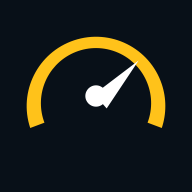
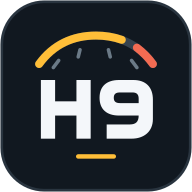
Обновить иконку H9 Cluster и значок уведомления (#78)
## Что изменено

Обычный значок спидометра заменён крупным знаком H9 на графитовом фоне с
янтарной шкалой и красным краем.

- Обновлены Android-вектор, SVG и PNG 192×192; добавлен PNG 512×512.
- Служебное уведомление FDBus использует отдельный одноцветный вектор с
прозрачным фоном, чтобы системное окрашивание не превращало его в
сплошной квадрат.
- Синхронизированы README, инструкция для 4PDA, описание файлов иконки и
CHANGELOG.

## Как проверено

Проверки выполнены для коммита `cf359a7` поверх актуального main
(`446a2da`).

- [x] `./gradlew testDebugUnitTest testDemoUnitTest lintDebug lintDemo
assembleDebug assembleDemo`: Debug — 309 тестов пройдено; Demo — 314
пройдено, 1 пропущен, ошибок нет. Android Lint и обе сборки APK прошли.
- [x] `python -m unittest discover -s tools/release -p 'test_*.py'` — 33
теста; на Windows использована временная настройка `core.autocrlf=true`
для тестовых репозиториев.
- [x] `git diff --check origin/main...HEAD`.
- [x] Сверены восемь контуров и цвета SVG/Android-вектора, размеры и
прозрачность PNG. Визуально проверена читаемость при 32–48 px и значка
уведомления при 24 px.
- [x] Проверено на совместимом головном устройстве.

## Безопасность

- [x] Изменение не отправляет команды управления автомобилем.
- [x] В PR нет ключей, паролей, VIN, координат, дампов или персональных
данных.
- [x] Новые графические материалы созданы для проекта из векторных
контуров; сторонние изображения и шрифты не добавлены.

## Визуальные изменения
[…]

diff --git a/app/src/main/java/net/adminrunet/h9cluster/FdbusProbeService.java b/app/src/main/java/net/adminrunet/h9cluster/FdbusProbeService.java
@@ -241,7 +241,7 @@ public final class FdbusProbeService extends Service
                 ? new Notification.Builder(this, NOTIFICATION_CHANNEL)
                 : new Notification.Builder(this);
         Notification notification = builder
-                .setSmallIcon(R.drawable.ic_dashboard)
+                .setSmallIcon(R.drawable.ic_dashboard_notification)
                 .setContentTitle("H9 FDBus probe")
                 .setContentText("Read-only diagnostics active")
                 .setOngoing(true)

diff --git a/docs/APP_ICON_RU.md b/docs/APP_ICON_RU.md
@@ -1,0 +1,30 @@
+# Иконка H9 Cluster
+
+Выбранное оформление: белый знак H9 на графитовом фоне, янтарная шкала
+с красным краем и короткая янтарная линия снизу. Буквы и цифра нарисованы
+контурами и не зависят от установленных шрифтов.
+
+![Иконка H9 Cluster](images/h9-cluster-icon-192.png)
+
+## Файлы
+
+| Назначение | Файл |
+| --- | --- |
+| Векторный исходник | [h9-cluster-icon.svg](images/h9-cluster-icon.svg) |
+| Иконка для 4PDA и README, 192×192 | [h9-cluster-icon-192.png](images/h9-cluster-icon-192.png) |
+| Иконка для публикаций, 512×512 | [h9-cluster-icon-512.png](images/h9-cluster-icon-512.png) |
+| Иконка Android | [ic_dashboard.xml](../app/src/main/res/drawable/ic_dashboard.xml) |
+| Значок служебного уведомления | [ic_dashboard_notification.xml](../app/src/main/res/drawable/ic_dashboard_notification.xml) |
+
+AndroidManifest использует `@drawable/ic_dashboard` для меню приложений.
+Все варианты сборки используют общий ресурс. Отдельный одноцветный значок
+уведомления содержит H9 и дугу без подложки и мелких делений: Android
+применяет к нему системный цвет, сохраняя прозрачный фон.
+
+При изменении оформления синхронно обновляйте SVG, цветной Android-вектор
+и оба PNG. При изменении контуров H9 обновляйте также значок уведомления.
+Проверяйте читаемость при 32–48 пикселях и на светлом и тёмном фоне.
+
+Публичное имя `h9-cluster-icon-192.png` сохранено для существующих ссылок
+в документации. Уже загруженную на 4PDA картинку нужно заменить при
+следующем обновлении темы; изменение файла в Git не обновляет вложение форума.

diff --git a/docs/4PDA_TOPIC_GUIDE_RU.md b/docs/4PDA_TOPIC_GUIDE_RU.md
@@ -80,7 +80,11 @@ docs/H9_Cluster_Sport_Final_Real_1920x720.png
 docs/images/h9-cluster-icon-192.png
 ```
 
-Оба файла сняты через `scrcpy` непосредственно с Display ID 2:
+Актуальный вариант — белый знак H9 на графитовом фоне с янтарной шкалой
+и красным краем. Для поля иконки загрузите этот PNG. Векторный исходник
+и версия `512×512` перечислены в [описании иконки](APP_ICON_RU.md).
+
+Оба скриншота сняты через `scrcpy` непосредственно с Display ID 2:
 первый показывает Classic с работающей карточкой `ATF 34 °C`, второй —
 актуальную тему Sport. Их можно использовать и в README, и в поле скриншотов
 4PDA. Не используйте

diff --git a/CHANGELOG.md b/CHANGELOG.md
@@ -5,6 +5,13 @@
 
 ## Unreleased
 
+### Changed
+
+- новая иконка приложения: крупный знак H9 на графитовом фоне с янтарной
+  шкалой и красным краем; обновлены SVG, PNG и оформление README;
+- служебное уведомление FDBus использует отдельную одноцветную версию знака
+  H9 без непрозрачной подложки.
+
 ## 9.6.1 — 2026-09-07
 
 - Добавлены часы `HH:mm` под штатной передачей в ION AURORA; в Classic и

diff --git a/README.md b/README.md
@@ -1,5 +1,7 @@
 # H9 Cluster 9.6.1
 
+<img src="docs/images/h9-cluster-icon-192.png" alt="Иконка H9 Cluster" width="96" height="96">
+
 [![Android CI](https://github.com/Arkasha18/H9-cluster/actions/workflows/android-ci.yml/badge.svg)](https://github.com/Arkasha18/H9-cluster/actions/workflows/android-ci.yml)
 [![Latest release](https://img.shields.io/github/v/release/Arkasha18/H9-cluster)](https://github.com/Arkasha18/H9-cluster/releases/latest)
 [![License: PolyForm Noncommercial](https://img.shields.io/badge/license-PolyForm%20Noncommercial%201.0.0-orange.svg)](LICENSE)
